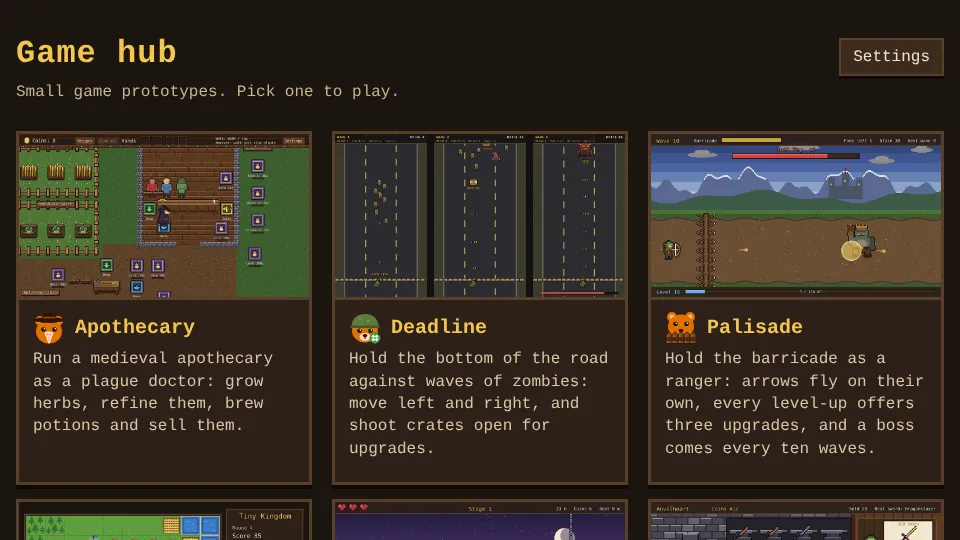
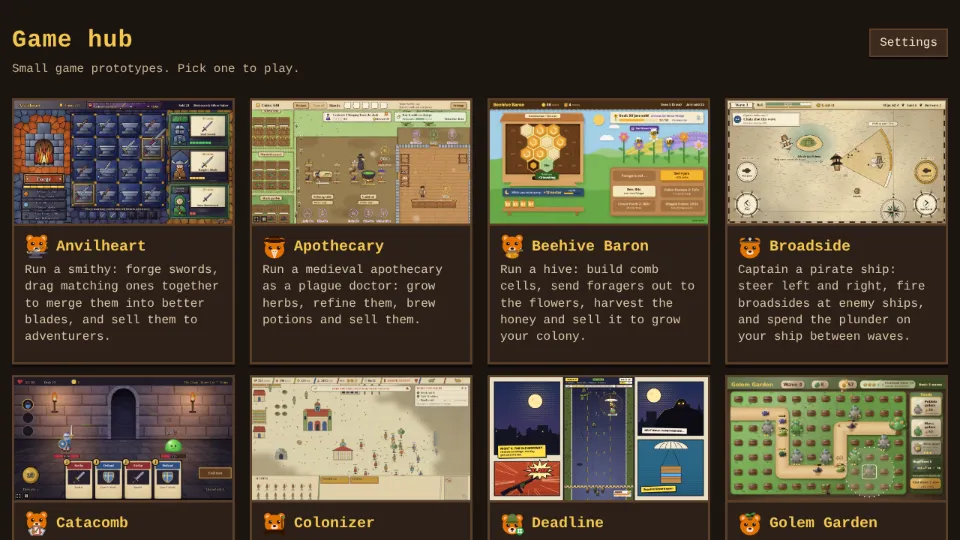
Hub: list the games alphabetically
The hub's cards are now in alphabetical order in the page, and a small
script sorts them by name on load, so a new game's card lands in place
wherever it is added. The hub test checks the order.

Requested by Chriszly.

Created with Claude Opus 5.5 (low effort)

diff --git a/index.html b/index.html
@@ -64,41 +64,6 @@
       <!-- One entry per game in games/<name>; see AGENTS.md for adding a game. -->
       <ul class="games">
         <li class="game">
-          <a href="games/apothecary/">
-            <img class="cover" src="./games/apothecary/cover.png" alt="The apothecary shop with a customer at the counter" />
-            <h2><img class="icon" src="./games/apothecary/favicon.svg" alt="" />Apothecary</h2>
-            <p>Run a medieval apothecary as a plague doctor: grow herbs, refine them, brew potions and sell them.</p>
-          </a>
-        </li>
-        <li class="game">
-          <a href="games/deadline/">
-            <img class="cover" src="./games/deadline/cover.png" alt="A soldier behind sandbags shooting a zombie horde coming down a road" />
-            <h2><img class="icon" src="./games/deadline/favicon.svg" alt="" />Deadline</h2>
-            <p>Hold the bottom of the road against waves of zombies: move left and right, and shoot crates open for upgrades.</p>
-          </a>
-        </li>
-        <li class="game">
-          <a href="games/palisade/">
-            <img class="cover" src="./games/palisade/cover.png" alt="The ranger behind the barricade facing the Troll King" />
-            <h2><img class="icon" src="./games/palisade/favicon.svg" alt="" />Palisade</h2>
-            <p>Hold the barricade as a ranger: arrows fly on their own, every level-up offers three upgrades, and a boss comes every ten waves.</p>
-          </a>
-        </li>
-        <li class="game">
-          <a href="games/tiny-kingdom/">
-            <img class="cover" src="./games/tiny-kingdom/cover.png" alt="A small island kingdom of farms, houses and towers between lakes and forests" />
-            <h2><img class="icon" src="./games/tiny-kingdom/favicon.svg" alt="" />Tiny Kingdom</h2>
-            <p>Place farms, houses and towers on a small island. Each one scores against its neighbours, so plan the layout before the tiles run out.</p>
-          </a>
-        </li>
-        <li class="game">
-          <a href="games/hotfoot/">
-            <img class="cover" src="./games/hotfoot/cover.png" alt="A knight leaping over coins on a road at dusk, a spiked log hanging ahead" />
-            <h2><img class="icon" src="./games/hotfoot/favicon.svg" alt="" />Hotfoot</h2>
-            <p>Run as a knight who never stops: tap to jump spikes and pits or slide under blades, and pick one of two boons at every checkpoint.</p>
-          </a>
-        </li>
-        <li class="game">
           <a href="games/anvilheart/">
             <img class="cover" src="./games/anvilheart/cover.png" alt="The smithy with swords on anvils and adventurers at the counter" />
             <h2><img class="icon" src="./games/anvilheart/favicon.svg" alt="" />Anvilheart</h2>
@@ -106,31 +71,10 @@
           </a>
         </li>
         <li class="game">
-          <a href="games/broadside/">
-            <img class="cover" src="./games/broadside/cover.png" alt="A pirate ship firing a broadside at an enemy sloop" />
-            <h2><img class="icon" src="./games/broadside/favicon.svg" alt="" />Broadside</h2>
-            <p>Captain a pirate ship: steer left and right, fire broadsides at enemy ships, and spend the plunder on your ship between waves.</p>
-          </a>
-        </li>
-        <li class="game">
-          <a href="games/tincture-tinker/">
-            <img class="cover" src="./games/tincture-tinker/cover.png" alt="A board of herbs, roots and crystals next to an order for a Healing Draught" />
-            <h2><img class="icon" src="./games/tincture-tinker/favicon.svg" alt="" />TinctureTinker</h2>
-            <p>Swap ingredients to match three or more and gather what each potion order asks for before the moves run out.</p>
-          </a>
-        </li>
-        <li class="game">
-          <a href="games/catacomb/">
-            <img class="cover" src="./games/catacomb/cover.png" alt="A knight with a hand of cards facing a slime in a dungeon room" />
-            <h2><img class="icon" src="./games/catacomb/favicon.svg" alt="" />Catacomb</h2>
-            <p>Fight through a short dungeon with a deck of cards: play a hand of five each turn, and add a new card after every fight.</p>
-          </a>
-        </li>
-        <li class="game">
-          <a href="games/golem-garden/">
-            <img class="cover" src="./games/golem-garden/cover.png" alt="Stone and moss golems guarding a garden path as beetles crawl toward a great tree" />
-            <h2><img class="icon" src="./games/golem-garden/favicon.svg" alt="" />Golem Garden</h2>
-            <p>Plant seeds beside the garden path that grow into golems, and keep the pests away from the Heartwood wave after wave.</p>
+          <a href="games/apothecary/">
+            <img class="cover" src="./games/apothecary/cover.png" alt="The apothecary shop with a customer at the counter" />
+            <h2><img class="icon" src="./games/apothecary/favicon.svg" alt="" />Apothecary</h2>
+            <p>Run a medieval apothecary as a plague doctor: grow herbs, refine them, brew potions and sell them.</p>
           </a>
         </li>
         <li class="game">
@@ -141,52 +85,17 @@
           </a>
         </li>
         <li class="game">
-          <a href="games/wyrmrail/">
-            <img class="cover" src="./games/wyrmrail/cover.png" alt="A green wyrm pulling a wagon of grain along a railway between villages" />
-            <h2><img class="icon" src="./games/wyrmrail/favicon.svg" alt="" />Wyrmrail</h2>
-            <p>Lay track across a valley and send a dragon-drawn train to carry cargo between villages before each order runs out of time.</p>
+          <a href="games/broadside/">
+            <img class="cover" src="./games/broadside/cover.png" alt="A pirate ship firing a broadside at an enemy sloop" />
+            <h2><img class="icon" src="./games/broadside/favicon.svg" alt="" />Broadside</h2>
+            <p>Captain a pirate ship: steer left and right, fire broadsides at enemy ships, and spend the plunder on your ship between waves.</p>
           </a>
         </li>
         <li class="game">
-          <a href="games/shrine-stack/">
-            <img class="cover" src="./games/shrine-stack/cover.png" alt="A temple of stacked stones with lanterns on its balanced tiers, a stone swinging above it at dusk" />
-            <h2><img class="icon" src="./games/shrine-stack/favicon.svg" alt="" />Shrine Stack</h2>
-            <p>Drop swinging stones to stack a temple: overhangs break off, and every balanced tier of three earns a blessing.</p>
-          </a>
-        </li>
-        <li class="game">
-          <a href="games/mapmaker/">
-            <img class="cover" src="./games/mapmaker/cover.png" alt="A bear surveyor charting a fog-covered island tile by tile" />
-            <h2><img class="icon" src="./games/mapmaker/favicon.svg" alt="" />Mapmaker</h2>
-            <p>Reveal a fog-covered island tile by tile on a limited store of supplies, and trade your charts at port for upgrades.</p>
-          </a>
-        </li>
-        <li class="game">
-          <a href="games/lanternkeep/">
-            <img class="cover" src="./games/lanternkeep/cover.png" alt="A castle at nightfall with glowing lanterns on its towers and moths flying between them" />
-            <h2><img class="icon" src="./games/lanternkeep/favicon.svg" alt="" />Lanternkeep</h2>
-            <p>Send moths from their jar to light the castle's lanterns before night falls, and spend the coins on wicks, oil and more moths.</p>
-          </a>
-        </li>
-        <li class="game">
-          <a href="games/space-wars/">
-            <img class="cover" src="./games/space-wars/cover.png" alt="A 70s paperback space battle: chrome 3D ships around a relay beacon on a violet nebula, with a contract pill in the top bar" />
-            <h2><img class="icon" src="./games/space-wars/favicon.svg" alt="" />Space Wars</h2>
-            <p>Build a base on a random star map, mine crystal and raise a fleet to take down four rival factions, each with its own ships and buildings.</p>
-          </a>
-        </li>
-        <li class="game">
-          <a href="games/lane-brawl/">
-            <img class="cover" src="./games/lane-brawl/cover.png" alt="A low-poly 3D lane with blue and red champions fighting by a crystal-topped tower, with an objective card and upgrade choice" />
-            <h2><img class="icon" src="./games/lane-brawl/favicon.svg" alt="" />Lane Brawl</h2>
-            <p>Lead a team of five champions down three lanes against NPC teams: farm, level up, buy items, push the lanes and destroy the enemy Nexus.</p>
-          </a>
-        </li>
-        <li class="game">
-          <a href="games/scrapyard-titans/">
-            <img class="cover" src="./games/scrapyard-titans/cover.png" alt="A cel-shaded 8x8 arena tilted toward the viewer, with junk-built robots fighting scrap mites, a bench, a shop of robot cards and seven rival commanders" />
-            <h2><img class="icon" src="./games/scrapyard-titans/favicon.svg" alt="" />Scrapyard Titans</h2>
-            <p>Buy junk-built robots, merge them, bolt on parts and watch them brawl on an 8x8 board against seven rival commanders until one is left.</p>
+          <a href="games/catacomb/">
+            <img class="cover" src="./games/catacomb/cover.png" alt="A knight with a hand of cards facing a slime in a dungeon room" />
+            <h2><img class="icon" src="./games/catacomb/favicon.svg" alt="" />Catacomb</h2>
+            <p>Fight through a short dungeon with a deck of cards: play a hand of five each turn, and add a new card after every fight.</p>
           </a>
         </li>
         <li class="game">
@@ -197,10 +106,101 @@
           </a>
         </li>
         <li class="game">
+          <a href="games/deadline/">
+            <img class="cover" src="./games/deadline/cover.png" alt="A soldier behind sandbags shooting a zombie horde coming down a road" />
+            <h2><img class="icon" src="./games/deadline/favicon.svg" alt="" />Deadline</h2>
+            <p>Hold the bottom of the road against waves of zombies: move left and right, and shoot crates open for upgrades.</p>
+          </a>
+        </li>
+        <li class="game">
+          <a href="games/golem-garden/">
+            <img class="cover" src="./games/golem-garden/cover.png" alt="Stone and moss golems guarding a garden path as beetles crawl toward a great tree" />
+            <h2><img class="icon" src="./games/golem-garden/favicon.svg" alt="" />Golem Garden</h2>
+            <p>Plant seeds beside the garden path that grow into golems, and keep the pests away from the Heartwood wave after wave.</p>
+          </a>
+        </li>
+        <li class="game">
+          <a href="games/hotfoot/">
+            <img class="cover" src="./games/hotfoot/cover.png" alt="A knight leaping over coins on a road at dusk, a spiked log hanging ahead" />
+            <h2><img class="icon" src="./games/hotfoot/favicon.svg" alt="" />Hotfoot</h2>
+            <p>Run as a knight who never stops: tap to jump spikes and pits or slide under blades, and pick one of two boons at every checkpoint.</p>
+          </a>
+        </li>
+        <li class="game">
+          <a href="games/lane-brawl/">
+            <img class="cover" src="./games/lane-brawl/cover.png" alt="A low-poly 3D lane with blue and red champions fighting by a crystal-topped tower, with an objective card and upgrade choice" />
+            <h2><img class="icon" src="./games/lane-brawl/favicon.svg" alt="" />Lane Brawl</h2>
+            <p>Lead a team of five champions down three lanes against NPC teams: farm, level up, buy items, push the lanes and destroy the enemy Nexus.</p>
+          </a>
+        </li>
+        <li class="game">
+          <a href="games/lanternkeep/">
+            <img class="cover" src="./games/lanternkeep/cover.png" alt="A castle at nightfall with glowing lanterns on its towers and moths flying between them" />
+            <h2><img class="icon" src="./games/lanternkeep/favicon.svg" alt="" />Lanternkeep</h2>
+            <p>Send moths from their jar to light the castle's lanterns before night falls, and spend the coins on wicks, oil and more moths.</p>
+          </a>
+        </li>
+        <li class="game">
+          <a href="games/mapmaker/">
+            <img class="cover" src="./games/mapmaker/cover.png" alt="A bear surveyor charting a fog-covered island tile by tile" />
+            <h2><img class="icon" src="./games/mapmaker/favicon.svg" alt="" />Mapmaker</h2>
+            <p>Reveal a fog-covered island tile by tile on a limited store of supplies, and trade your charts at port for upgrades.</p>
+          </a>
+        </li>
+        <li class="game">
+          <a href="games/palisade/">
+            <img class="cover" src="./games/palisade/cover.png" alt="The ranger behind the barricade facing the Troll King" />
+            <h2><img class="icon" src="./games/palisade/favicon.svg" alt="" />Palisade</h2>
+            <p>Hold the barricade as a ranger: arrows fly on their own, every level-up offers three upgrades, and a boss comes every ten waves.</p>
+          </a>
+        </li>
+        <li class="game">
           <a href="games/riftblade/">
             <img class="cover" src="./games/riftblade/cover.png" alt="A neon-glow legionary on a dark desert grid, with a shield arc and a slowing cone, holding off a swarm of glowing scrap droids" />
             <h2><img class="icon" src="./games/riftblade/favicon.svg" alt="" />Riftblade</h2>
             <p>Hold out five minutes against scrap droids on a dune world as one of three blaster soldiers, then beat the boss; every level-up offers a new skill.</p>
+          </a>
+        </li>
+        <li class="game">
+          <a href="games/scrapyard-titans/">
+            <img class="cover" src="./games/scrapyard-titans/cover.png" alt="A cel-shaded 8x8 arena tilted toward the viewer, with junk-built robots fighting scrap mites, a bench, a shop of robot cards and seven rival commanders" />
+            <h2><img class="icon" src="./games/scrapyard-titans/favicon.svg" alt="" />Scrapyard Titans</h2>
+            <p>Buy junk-built robots, merge them, bolt on parts and watch them brawl on an 8x8 board against seven rival commanders until one is left.</p>
+          </a>
+        </li>
+        <li class="game">
+          <a href="games/shrine-stack/">
+            <img class="cover" src="./games/shrine-stack/cover.png" alt="A temple of stacked stones with lanterns on its balanced tiers, a stone swinging above it at dusk" />
+            <h2><img class="icon" src="./games/shrine-stack/favicon.svg" alt="" />Shrine Stack</h2>
+            <p>Drop swinging stones to stack a temple: overhangs break off, and every balanced tier of three earns a blessing.</p>
+          </a>
+        </li>
+        <li class="game">
+          <a href="games/space-wars/">
+            <img class="cover" src="./games/space-wars/cover.png" alt="A 70s paperback space battle: chrome 3D ships around a relay beacon on a violet nebula, with a contract pill in the top bar" />
+            <h2><img class="icon" src="./games/space-wars/favicon.svg" alt="" />Space Wars</h2>
+            <p>Build a base on a random star map, mine crystal and raise a fleet to take down four rival factions, each with its own ships and buildings.</p>
+          </a>
+        </li>
+        <li class="game">
+          <a href="games/tincture-tinker/">
+            <img class="cover" src="./games/tincture-tinker/cover.png" alt="A board of herbs, roots and crystals next to an order for a Healing Draught" />
+            <h2><img class="icon" src="./games/tincture-tinker/favicon.svg" alt="" />TinctureTinker</h2>
+            <p>Swap ingredients to match three or more and gather what each potion order asks for before the moves run out.</p>
+          </a>
+        </li>
+        <li class="game">
+          <a href="games/tiny-kingdom/">
+            <img class="cover" src="./games/tiny-kingdom/cover.png" alt="A small island kingdom of farms, houses and towers between lakes and forests" />
+            <h2><img class="icon" src="./games/tiny-kingdom/favicon.svg" alt="" />Tiny Kingdom</h2>
+            <p>Place farms, houses and towers on a small island. Each one scores against its neighbours, so plan the layout before the tiles run out.</p>
+          </a>
+        </li>
+        <li class="game">
+          <a href="games/wyrmrail/">
+            <img class="cover" src="./games/wyrmrail/cover.png" alt="A green wyrm pulling a wagon of grain along a railway between villages" />
+            <h2><img class="icon" src="./games/wyrmrail/favicon.svg" alt="" />Wyrmrail</h2>
+            <p>Lay track across a valley and send a dragon-drawn train to carry cargo between villages before each order runs out of time.</p>
           </a>
         </li>
       </ul>
@@ -215,6 +215,10 @@
       document.getElementById('close-settings').addEventListener('click', () => dialog.close());
       // A click on the backdrop closes it too.
       dialog.addEventListener('click', (e) => e.target === dialog && dialog.close());
+      // Keep the cards in alphabetical order, so a new game lands in place wherever its card is added.
+      const games = document.querySelector('.games');
+      const title = (li) => li.querySelector('h2').textContent.trim();
+      games.append(...[...games.children].sort((a, b) => title(a).localeCompare(title(b), 'en')));
       showPlayCounts(document.querySelectorAll('.game a'));
     </script>
   </body>

diff --git a/e2e/hub.spec.ts b/e2e/hub.spec.ts
@@ -41,6 +41,9 @@ test('hub lists every game', async ({ page }, testInfo) => {
   await page.goto('/');
   await expect(page.locator('.game')).toHaveCount(GAMES.length);
   await expectFavicon(page);
+  // The cards are in alphabetical order.
+  const names = (await page.locator('.game h2').allTextContents()).map((n) => n.trim());
+  expect(names).toEqual([...names].sort((a, b) => a.localeCompare(b, 'en')));
   // Every card's cover loads.
   const covers = page.locator('.game .cover');
   await expect(covers).toHaveCount(GAMES.length);

diff --git a/AGENTS.md b/AGENTS.md
@@ -113,7 +113,7 @@ and tries to link it to the repo (the run summary says if the link has to be mad
   and it is played by the shared `.github/workflows/playthrough.yml`, which finds every
   `games/<name>/e2e/playthrough.spec.ts` on its own, so a new game needs no workflow of its own. Give it a `favicon.svg` linked from its `index.html`: the orange bear from the hub's
   `favicon.svg` (same ears, head, dot eyes and muzzle, 32x32 viewBox) with one prop for the game,
-  like Apothecary's plague doctor hat and beak. Then add a card for it in the hub's `index.html` and in `e2e/hub.spec.ts`, a
+  like Apothecary's plague doctor hat and beak. Then add a card for it in the hub's `index.html` (the hub sorts its cards by name) and in `e2e/hub.spec.ts`, a
   Playwright project in `playwright.config.ts`, a row in the README's table of games and a row in
   the table of guides above. Add its Game label (its folder name, description `Game: <Name>`) to `.github/labels.json` (the Labels
   workflow creates it on main), its Project (title, short description and README) to `.github/projects.json`, its name to the
